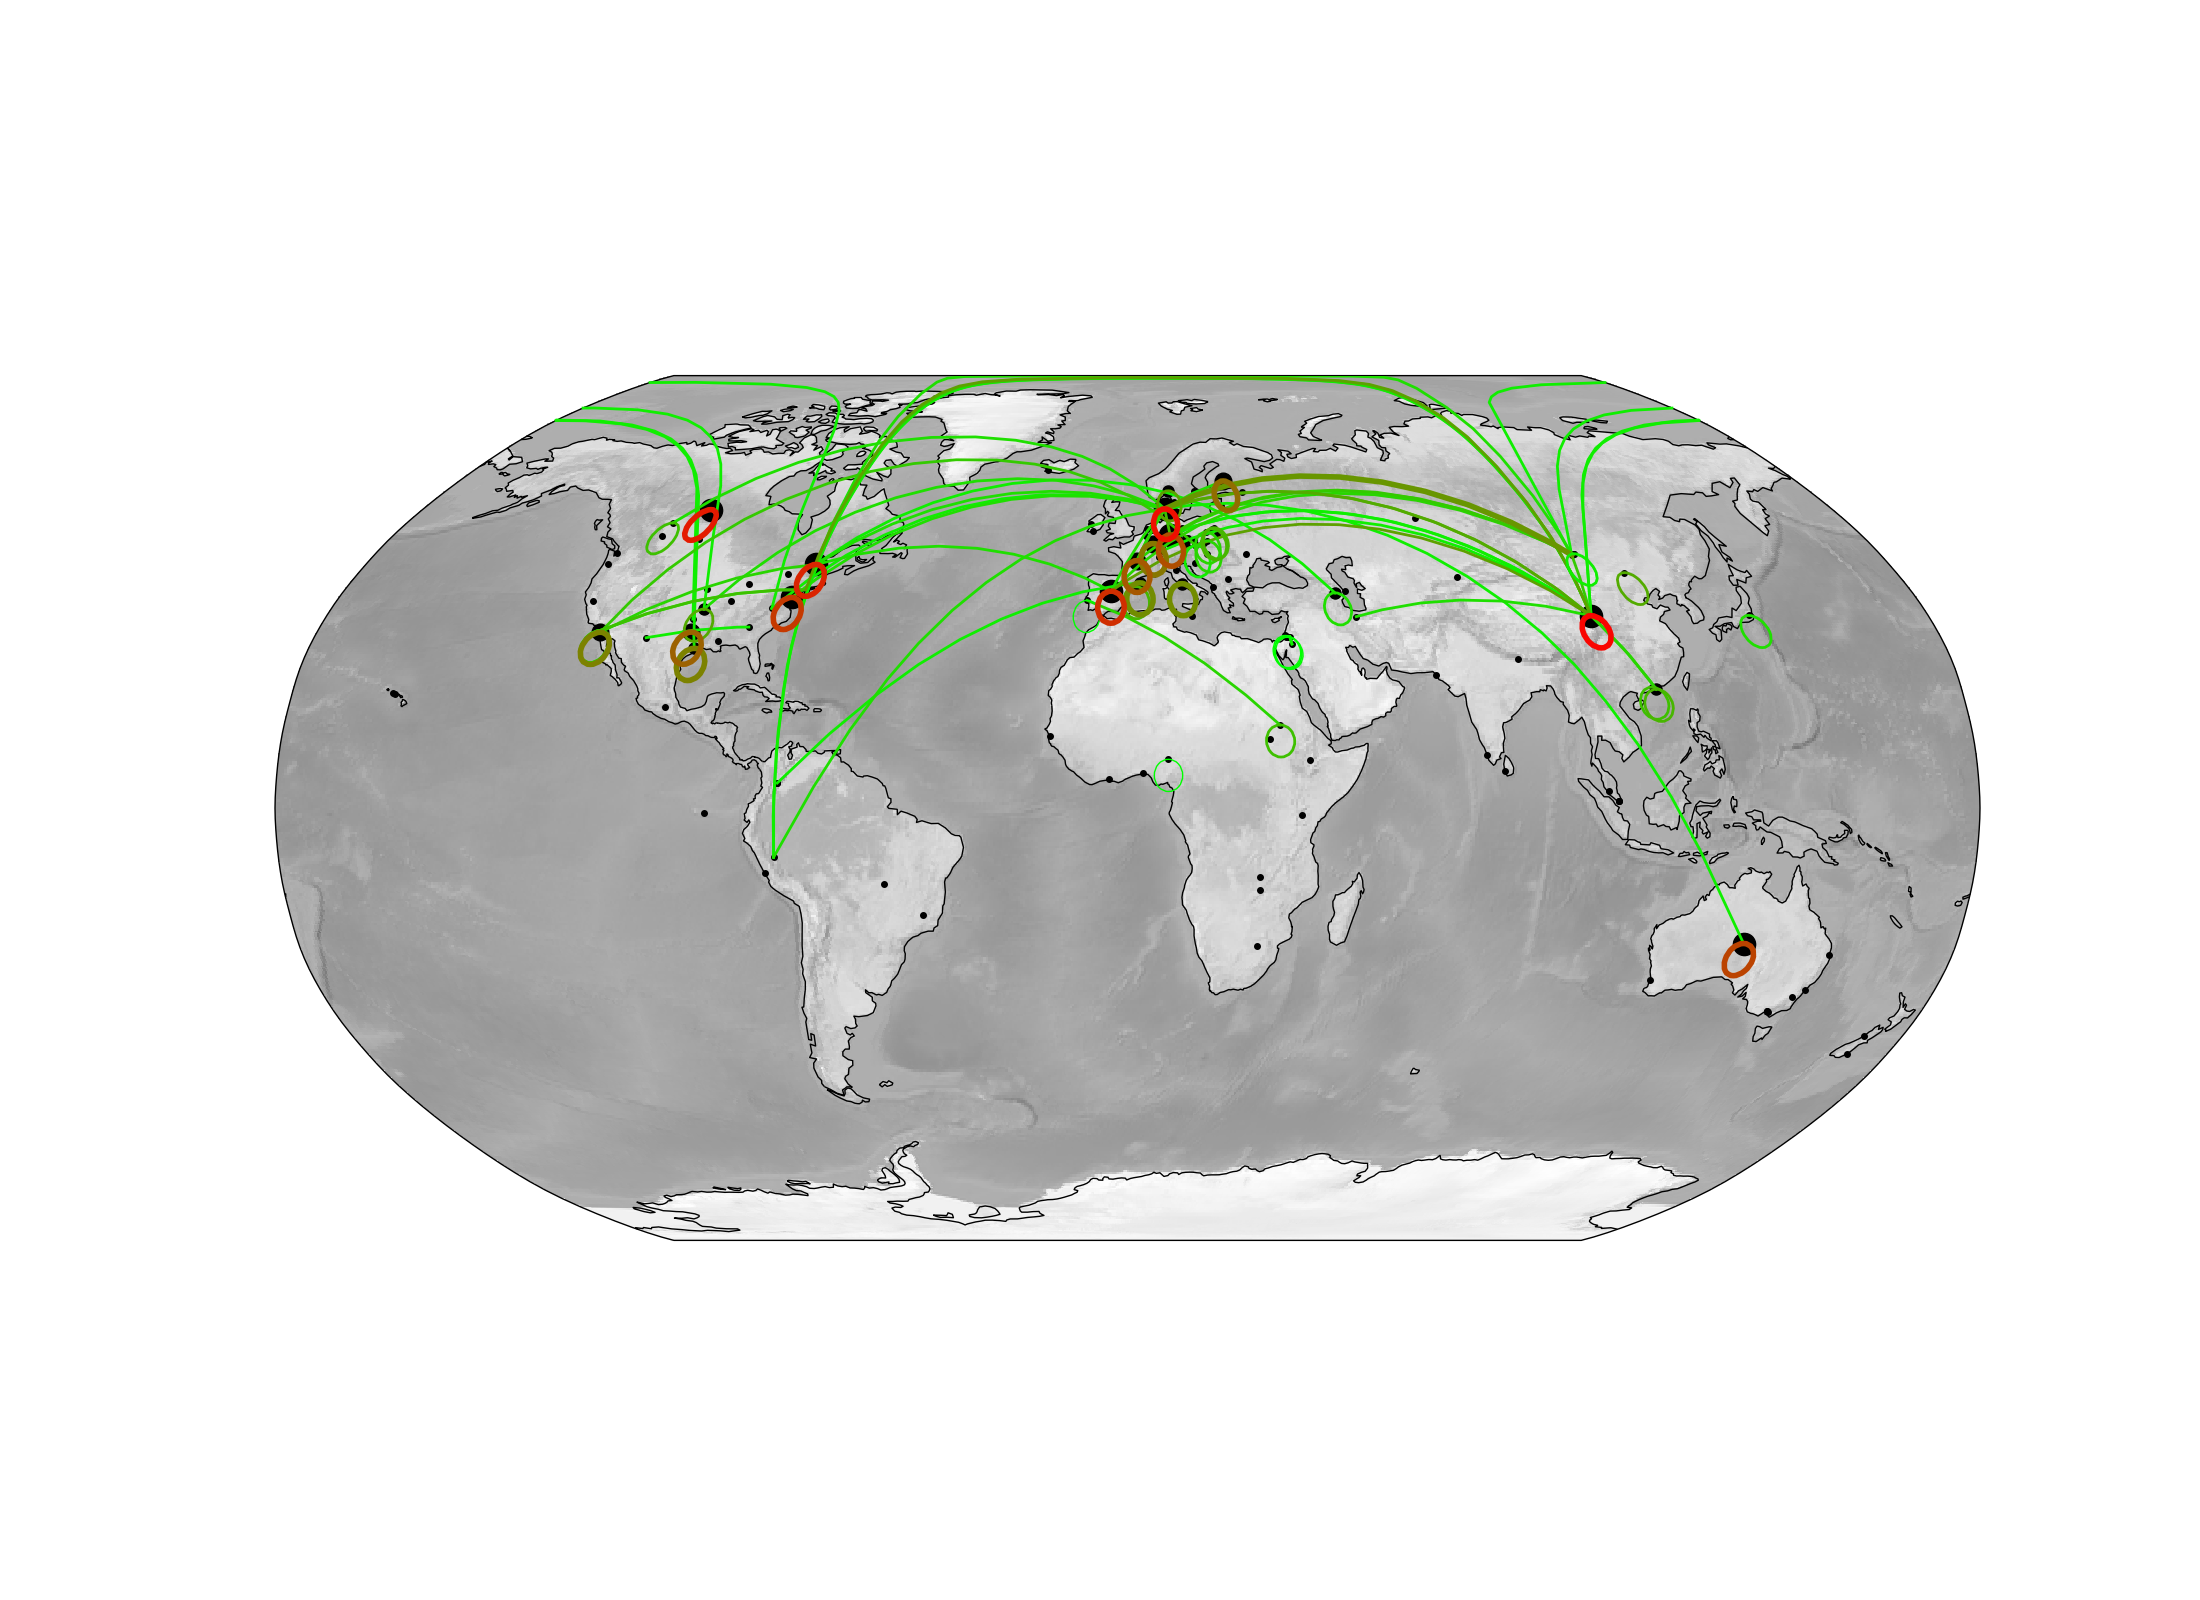
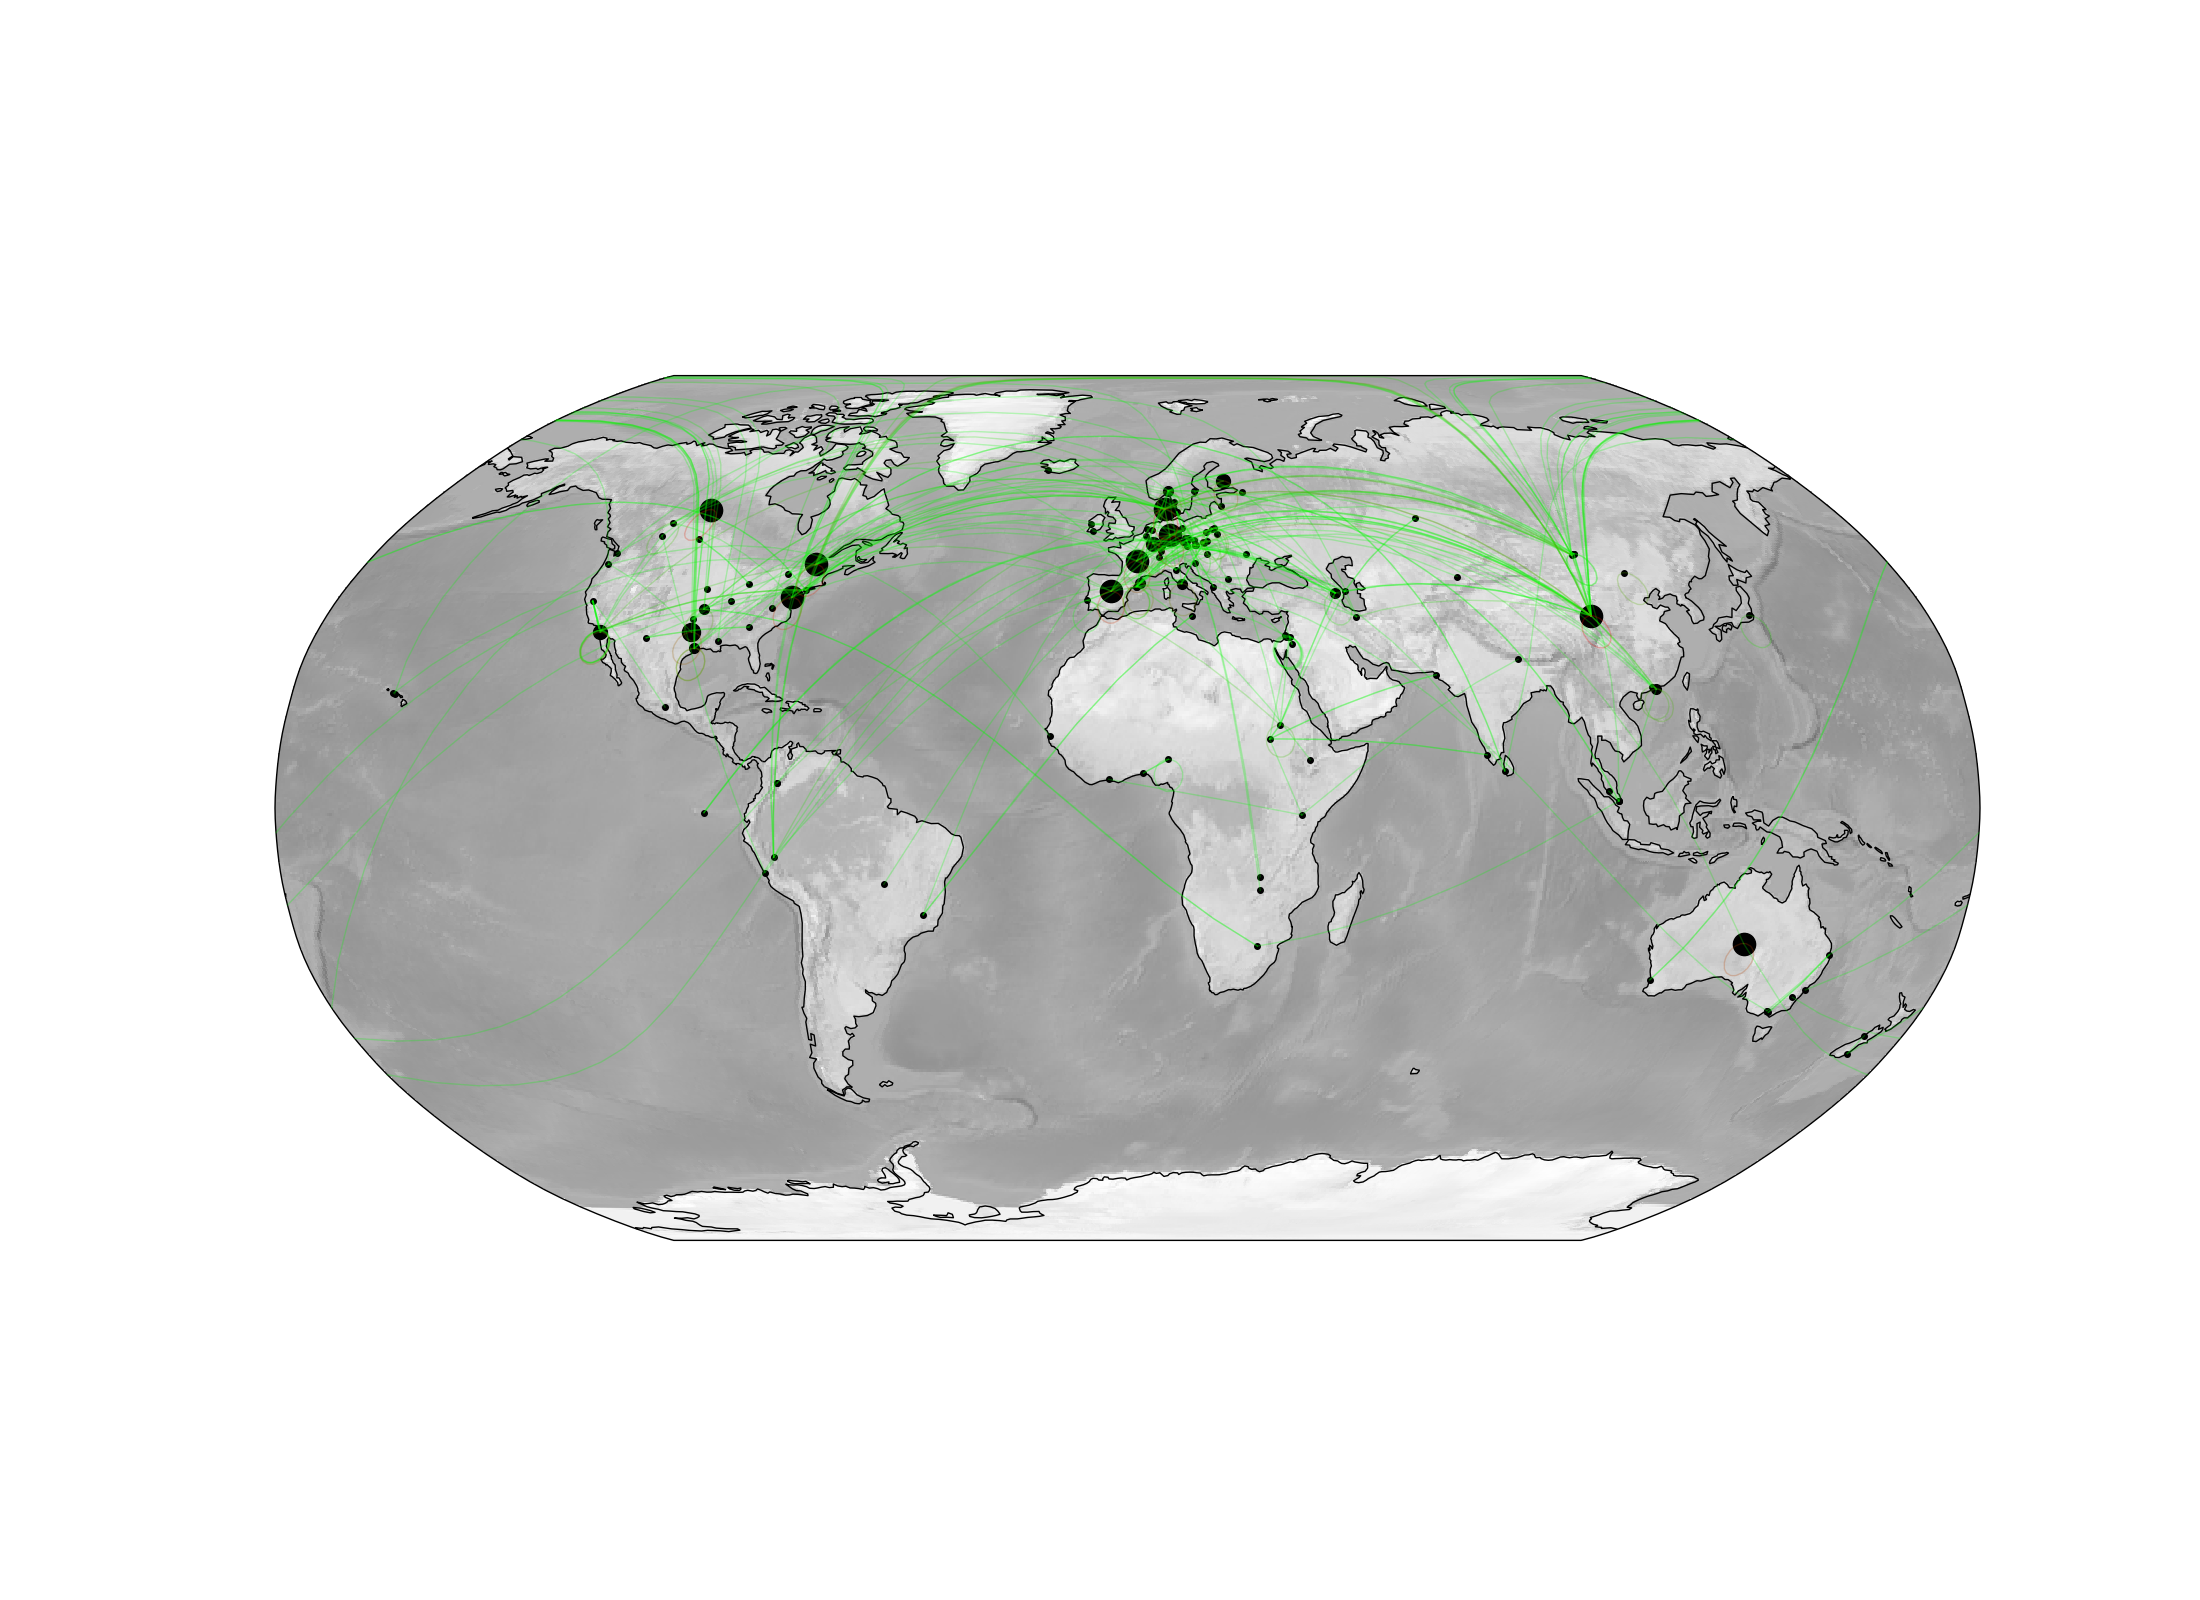
refactoring and making grayscale

diff --git a/bin/map_drawing/drawing.py b/bin/map_drawing/drawing.py
@@ -1,6 +1,8 @@
 """
 Read a cophenetic matrix to plot the distances. You can make the matrix using ete3 and tree_to_cophenetic_matrix.py
 """
+import os
+os.environ["CARTOPY_USER_BACKGROUNDS"] = "/home/redwards/GitHubs/crAssphage/bin/map_drawing/crassphage_maps/images"
 
 import sys
 import argparse
@@ -13,6 +15,8 @@ import matplotlib.cm as cmx
 from matplotlib.patches import Circle, Rectangle
 
 import math
+import json
+import time
 
 import cartopy.crs as ccrs
 import re
@@ -20,18 +24,66 @@ import re
 import numpy as np
 from itertools import compress
 
-from .crassphage_maps import closest_dna_dist, get_lon_lat, latlon2distance, country2continent
-from .crassphage_maps import green2red, green2yellow, evenly_select
+from crassphage_maps import closest_dna_dist, get_lon_lat, latlon2distance, country2continent
+from crassphage_maps import green2red, green2yellow, evenly_select, GnBu5
 
 
-def plotmap(ll, dd, outputfile, alpha, linewidth=1, bounds=None, maxdist=1, maxlinewidth=6,
-            colorcontinents=False, plotintensity=False, legendfile=None, linewidthbyn=False):
+def draw_dots(ll, dd, plt, verbose=False):
+    """
+    draw just the dots
+    :param ll: the lat lons
+    :param dd: the distance data
+    :param plt: the matplotlib plot
+    :param verbose: more output
+    :return: the datalegend and the datalabels
+    """
+
+    # note that now we calculate where everything should be and then plot it based on maximum values!
+    dotat = {}
+    for lid in ll:
+        if lid not in dd:
+            continue
+        lonlat = ll[lid]
+        dotat[(lonlat[0], lonlat[1])] = dotat.get((lonlat[0], lonlat[1]), 0) + 1
+
+    dotlegend = []
+    dotlabels = []
+
+    markersizes = [4, 7, 10, 13, 16]
+    for m in markersizes:
+        # shp = Rectangle((0, 100), 100, 100, linewidth=5, edgecolor='black', facecolor='black', alpha=dotalpha)
+        shp = Circle((0, 100), radius=m, color='Black')
+        dotlegend.append(shp)
+        dotlabels.append(m)
+
+    for tple in sorted(dotat, key=dotat.get):
+        markersize = None
+        if dotat[tple] < 10:
+            markersize = markersizes[0]
+        elif dotat[tple] < 20:
+            markersize = markersizes[1]
+        elif dotat[tple] < 30:
+            markersize = markersizes[2]
+        elif dotat[tple] < 40:
+            markersize = markersizes[3]
+        else:
+            markersize = markersizes[-1]
+
+        plt.plot(tple[0], tple[1], 'o', color='Black', markersize=markersize,
+                 transform=ccrs.PlateCarree())
+
+    if verbose:
+        sys.stderr.write("Dots,{}\n".format(",".join(map(str, dotat.values()))))
+
+    return dotlegend, dotlabels
+
+def plotmap(ll, dd, outputfile, alpha, linewidth=1, maxdist=1, maxlinewidth=6,
+            colorcontinents=False, plotintensity=False, legendfile=None, linewidthbyn=False, verbose=False):
     """
     Plot the map of the dna distances and lat longs
     :param ll: The lon-lats
     :param dd: The distances to use
     :param outputfile: The file name to write the image to
-    :param bounds: the boundary for the lat long as a 4-ple array
     :param maxdist: The maximum distance that we will scale to be maxlinewidth
     :param colorcontinents: color lines that go to different continents a different color (currently yellow)
     :param plotintensity: plot the colors of the lines by intensity vs. setting each number a color
@@ -39,7 +91,7 @@ def plotmap(ll, dd, outputfile, alpha, linewidth=1, bounds=None, maxdist=1, maxl
     :param linewidthbyn: scale the line width by the number of lines drawn
     :return:
     """
-    global verbose
+
 
     if verbose:
         sys.stderr.write("Plotting the map\n")
@@ -67,10 +119,10 @@ def plotmap(ll, dd, outputfile, alpha, linewidth=1, bounds=None, maxdist=1, maxl
 
     # make the map global rather than have it zoom in to
     # the extents of any plotted data
-    if not bounds:
-        ax.set_global()
+    ax.set_global()
 
-    ax.stock_img()
+    ax.background_img(name='grayscale_shaded', resolution='low')
+    #ax.stock_img()
     ax.coastlines()
 
     # color the lines based on the maximum distance value
@@ -78,6 +130,9 @@ def plotmap(ll, dd, outputfile, alpha, linewidth=1, bounds=None, maxdist=1, maxl
     cNorm = colors.Normalize(vmin=0, vmax=maxdist)
     scalarMap = cmx.ScalarMappable(norm=cNorm, cmap=jet)
 
+    """
+    
+    Probably don't need this section
     # Using contourf to provide my colorbar info, then clearing the figure
     Z = [[0, 0], [0, 0]]
     levels = range(0, int(100 * maxdist) + 10, 10)
@@ -89,47 +144,12 @@ def plotmap(ll, dd, outputfile, alpha, linewidth=1, bounds=None, maxdist=1, maxl
 
     # plot the circles for each sample site
     # markerfacecolor="None",
+    
+    END of the don't need
+    """
 
-    # note that now we calculate where everything should be and then plot it based on maximum values!
-    dotat = {}
-    for lid in ll:
-        if lid not in dd:
-            continue
-        lonlat = ll[lid]
-        if bounds and ((lonlat[1] < bounds[0] or lonlat[1] > bounds[2]) or
-                       (lonlat[0] < bounds[1] or lonlat[0] > bounds[3])):
-            if verbose:
-                sys.stderr.write("Not in bounding box: {}\n".format(lonlat))
-            continue
-        if verbose:
-            sys.stderr.write("Kept location: {}\n".format(lonlat))
-        # plt.plot(lonlat[0], lonlat[1], 'o', color='Black', alpha=alpha, markersize=10, transform=ccrs.PlateCarree())
-        dotat[(lonlat[0], lonlat[1])] = dotat.get((lonlat[0], lonlat[1]), 0) + 1
+    dotlegend, dotlabels = draw_dots(ll, dd, plt, verbose=verbose)
 
-    maxdot = max(dotat.values())
-    sys.stderr.write(f"Maximum dot density is {maxdot}\n")
-    # we make the mean 50% intensity this time
-    meandot = np.mean(list(dotat.values()))
-    sys.stderr.write(f"The mean dot density is {meandot}\n")
-    print()
-    # now we color the dots based on the intensity of each dot!
-    dotlegend = []
-    dotlabels = []
-    dotadded = set()
-    for tple in sorted(dotat, key=dotat.get):
-        dotalpha = (dotat[tple] / meandot) * 0.5
-        if dotalpha > 1:
-            dotalpha = 1
-        if dotat[tple] not in dotadded:
-            rect = Rectangle((0, 100), 100, 100, linewidth=5, edgecolor='black', facecolor='black', alpha=dotalpha)
-            dotlegend.append(rect)
-            dotlabels.append(dotat[tple])
-            dotadded.add(dotat[tple])
-        markeredgewidth = markersize // 5
-        plt.plot(tple[0], tple[1], 'o', color='Black', alpha=dotalpha, markersize=markersize,
-                 transform=ccrs.PlateCarree())
-        plt.plot(tple[0], tple[1], 'o', color='Black', fillstyle='none', markersize=markersize,
-                 mew=markeredgewidth, transform=ccrs.PlateCarree())
 
     # how many lines and circles do we draw?
     circleat = {}
@@ -160,16 +180,6 @@ def plotmap(ll, dd, outputfile, alpha, linewidth=1, bounds=None, maxdist=1, maxl
                     scaledalpha = alpha * 0.25
                     samecontinent = False
 
-            if bounds and ((ll[idx1][1] < bounds[0] or ll[idx1][1] > bounds[2]) or (ll[idx1][0] < bounds[1] or ll[idx1][0] > bounds[3])):
-                if verbose:
-                    sys.stderr.write("{} out of bounds. Skipped\n".format(idx1))
-                continue
-
-            if bounds and ((ll[idx2][1] < bounds[0] or ll[idx2][1] > bounds[2]) or (ll[idx2][0] < bounds[1] or ll[idx2][0] > bounds[3])):
-                if verbose:
-                    sys.stderr.write("{} out of bounds. Skipped\n".format(idx2))
-                continue
-
             if linewidth == 0:
                 linewidth = dd[idx1][idx2]
                 linewidth = (linewidth/maxdist) * maxlinewidth
@@ -184,8 +194,6 @@ def plotmap(ll, dd, outputfile, alpha, linewidth=1, bounds=None, maxdist=1, maxl
                 # we need to use some simple trig to find the center of the circle whose point on the circumference
                 # is at our lat lon
                 radius = 3
-                if bounds:
-                    radius = 1.5
                 circlon = ll[idx1][0] - (radius * math.sin(2 * math.pi))
                 circlat = ll[idx1][1] - (radius * math.cos(2 * math.pi))
 
@@ -368,46 +376,34 @@ def plotmap(ll, dd, outputfile, alpha, linewidth=1, bounds=None, maxdist=1, maxl
     # sys.stderr.write("We drew a max of {} circles\n".format(max(circleat.values())))
     # sys.stderr.write("And we drew a max of {} lines\n".format(max(lineat.values())))
     sys.stderr.write("Circles,{}\nLines,{}\n".format(",".join(map(str, circleat.values())), ",".join(map(str, lineat.values()))))
-    sys.stderr.write("Dots,{}\n".format(",".join(map(str, dotat.values()))))
 
-    sys.stderr.write("\nMAXIMUM VALUES\nCirlces: {}\nLines: {}\nDots: {}\n".format(max(circleat.values()),
-                                                                                   max(lineat.values()),
-                                                                                   max(dotat.values())
+    sys.stderr.write("\nMAXIMUM VALUES\nCirlces: {}\nLines: {}\n".format(max(circleat.values()),
+                                                                                   max(lineat.values())
                                                                                    ))
 
 if __name__ == '__main__':
     parser = argparse.ArgumentParser(description='Plot a map using ete and lat lon')
     parser.add_argument('-i', help='id.map file with lat/lon information', required=True)
-    parser.add_argument('-m', help='cophenetic map file with same ids as id.map', required=True)
+    parser.add_argument('-j', help='json format of the cophenetic map file with same ids as id.map', required=True)
     parser.add_argument('-o', help='output file name', required=True)
     parser.add_argument('-a', help='alpha level for lines. Default=0.25', type=float, default=0.25)
     parser.add_argument('-l', help='linewidth for the lines connecting similar sites', default=1, type=float)
     parser.add_argument('-c', help='color the lines between continents yellow', action='store_true')
     parser.add_argument('-n', help='Plot the intensity as a fraction of max value', action='store_true')
-    parser.add_argument('-b', help='geographic bounds. Use top left, bottom right. e.g. 75,35:35,-25')
     parser.add_argument('-g', help="Legend file. This is a simple image with the legend, and is in a separate file")
     parser.add_argument('-s', help='scale the line width by the number of times the line is drawn', action='store_true')
     parser.add_argument('-v', help='verbose output', action='store_true')
     args = parser.parse_args()
 
+    t = time.time()
+    sys.stderr.write("Reading lat lon\n")
+    lonlat = get_lon_lat(args.i, verbose=args.v)
+    sys.stderr.write(f"\ttook {time.time() - t} seconds\n")
 
-    bounds = None
-    if args.b:
-        ll = args.b.split(":")
-        topleft = ll[0].split(",")
-        bottomright = ll[1].split(",")
-        try:
-            bounds=[int(topleft[0]), int(topleft[1]), int(bottomright[0]), int(bottomright[1])]
-            if bounds[0] > bounds[2]:
-                (bounds[0], bounds[2]) = (bounds[2], bounds[0])
-            if bounds[1] > bounds[3]:
-                (bounds[1], bounds[3]) = (bounds[3], bounds[1])
-        except:
-            sys.stderr.write("There was an error parsing integers from {}. Please do not include N/E/S/W, just +/- ints\n".format(args.b))
-            sys.exit()
+    t = time.time()
+    with open(args.j, 'r') as jin:
+        dist = json.load(jin)
+    sys.stderr.write(f"Reading json took {time.time()-t} seconds\n")
 
-    lonlat = get_lon_lat(args.i, args.v)
-    dist = closest_dna_dist(args.m, args.v)
-
-    plotmap(lonlat, dist, args.o, args.a, linewidth=args.l, bounds=bounds, colorcontinents=args.c,
-            plotintensity=args.n, legendfile=args.g, linewidthbyn=args.s)
+    plotmap(lonlat, dist, args.o, args.a, linewidth=args.l, colorcontinents=args.c,
+            plotintensity=args.n, legendfile=args.g, linewidthbyn=args.s, verbose=args.v)

diff --git a/bin/count_sequences.py b/bin/count_sequences.py
@@ -1,0 +1,24 @@
+"""
+Count the abundance of sequences in a fasta file
+"""
+
+import os
+import sys
+import argparse
+from collections import Counter
+from roblib import read_fasta
+
+if __name__ == '__main__':
+    parser = argparse.ArgumentParser(description="Count the abundance of sequences in a fasta file")
+    parser.add_argument('-f', help='fasta file', required=True)
+    parser.add_argument('-v', help='verbose output', action="store_true")
+    args = parser.parse_args()
+
+    ids = read_fasta(args.f)
+    lowercaseids = {k: v.lower() for k, v in ids.items()}
+    seqs = Counter(lowercaseids.values())
+    counts = Counter(seqs.values())
+    for k,v in sorted(counts.items()):
+        print(f"{k}\t{v}")
+
+
